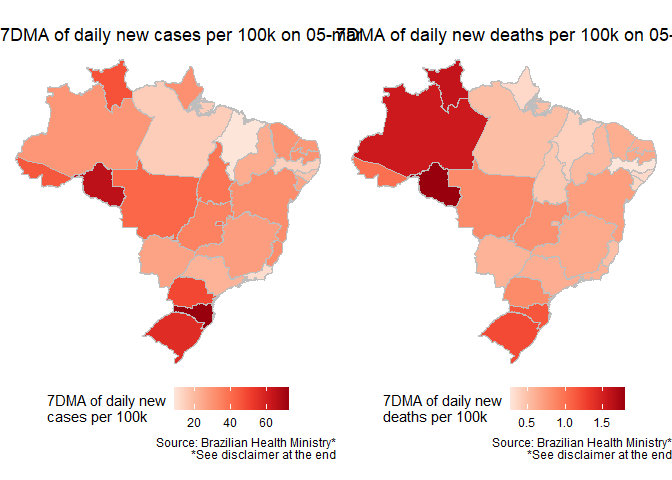
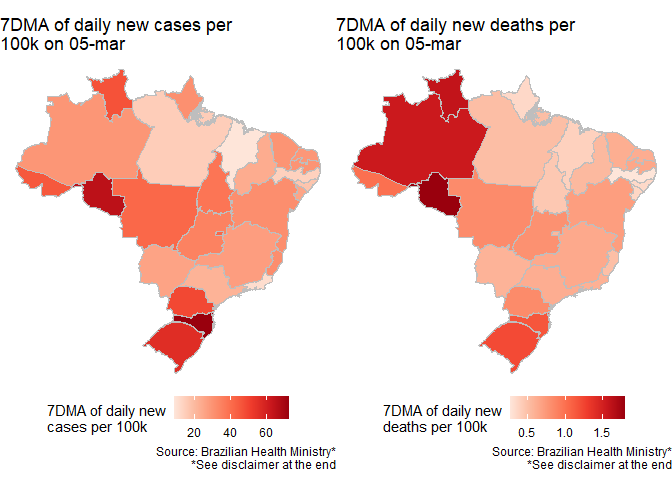
updates

Changed region(s): [[0.0, 0.0312, 1.0, 1.0], [0.7188, 0.25, 0.75, 0.2812], [0.2188, 0.25, 0.25, 0.2812]]

diff --git a/README.md b/README.md
@@ -1,4 +1,5 @@
-Covid BR
+R Code for collecting and plotting Covid-19 data for Brazil and
+brazilian states.
 ================
 Mohammed Kaebi
 
@@ -91,8 +92,8 @@ Mohammed Kaebi
   - [Data source](#data-source)
       - [Data source](#data-source-1)
 
-R Code for collecting and plotting Covid-19 data for Brazil and
-brazilian states.
+*Most part of the code is yet to be commented. It is, however, mostly
+self-explanatory.*
 
 ``` r
 knitr::opts_chunk$set(echo = TRUE)
@@ -224,7 +225,7 @@ g1 <- ggplot(data = dataset) +
   scale_fill_distiller(palette = "Reds",
                        direction = 1)+
   labs(fill = "7DMA of daily new\ncases per 100k",
-       title = paste("7DMA of daily new cases per 100k on", format(today() - 1, "%d-%b")),
+       title = paste("7DMA of daily new cases per\n100k on", format(today() - 1, "%d-%b")),
        caption = "Source: Brazilian Health Ministry*\n*See disclaimer at the end")+
   theme_void()+
   theme(strip.background = element_blank(), legend.position = "bottom")
@@ -246,7 +247,7 @@ g2 <- ggplot(data = dataset) +
   scale_fill_distiller(palette = "Reds",
                        direction = 1)+
   labs(fill = "7DMA of daily new\ndeaths per 100k",
-       title = paste("7DMA of daily new deaths per 100k on", format(today() - 1, "%d-%b")),
+       title = paste("7DMA of daily new deaths per\n100k on", format(today() - 1, "%d-%b")),
        caption = "Source: Brazilian Health Ministry*\n*See disclaimer at the end")+
   theme_void()+
   theme(strip.background = element_blank(), legend.position = "bottom")
@@ -1925,6 +1926,7 @@ grid.arrange(g1, g2, nrow = 1)
 
 Link: <https://github.com/wcota/covid19br>
 
-Disclaimer: Dados do Ministério da Saúde até o dia em que estão
-disponíveis. Para os mais recentes (e que ainda não foram divulgados
-pelo Ministério da Saúde), dados das Secretarias Estaduais de Saúde.
+Disclaimer: Data from the Brazilian Ministry of Health until the day
+they are available. For the most recent (and which have not yet been
+released by the Ministry of Health), data from State Health
+Secretariats.
